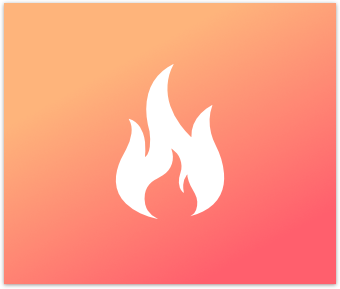
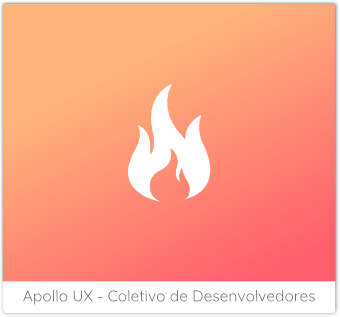
mudan;a das fotos na pagina inicial

diff --git a/css/estilo.css b/css/estilo.css
@@ -1,2 +1,2 @@
-@import url("https://fonts.googleapis.com/css?family=Lato:300,400|Quicksand");body{font-size:16px;font-family:'Quicksand';backgroud:#272935}body a{color:#999;transition:all .5s ease-in-out}body a:hover{color:#333}.nav{position:fixed!important;top:0;left:0;right:0}.nav .titulo--nav{font-size:15px}.nav .nav-item a.is-tab:hover,.nav a.nav-item.is-tab:hover{border-bottom-color:#6a6a6a!important;border-top-color:transparent}.nav .nav-item a.is-tab,.nav a.nav-item.is-tab{border-bottom:1px solid #eee!important}.projetos{margin-top:150px;font-family:'Quicksand';padding-top:0px!important}.projetos .header{font-size:25px;color:#333}.projetos .header--profissao{margin-top:0px;font-size:20px;color:#6a6a6a;font-weight:500}.projetos .header--descricao{margin-top:20px;font-size:16px;color:#999;font-weight:300}.projetos .header--projeto{margin-top:30px;font-size:25px;color:#6a6a6a}.projetos .projetos--imagem--direita div img,.projetos .projetos--imagem--esquerda{width:300px}.projetos .projetos--imagem--esquerda img{margin-right:0}.projetos .projetos--imagem--direita img{margin-left:0}.projetos .projetos__thumb:hover img{cursor:pointer}.projetos .projetos--link{color:#6a6a6a;transition:all .5s ease-in-out}.projetos .projetos__pagina{transition:all 1s ease-in-out}.projetos .projetos--link:hover{color:#BFD9DC}.projetos .projetos__pagina--lista ul{position:absolute}.projetos .projetos__pagina--lista li{display:inline;padding-right:20px;float:left;cursor:pointer;color:#999;bottom:0}.projetos .btn{margin-bottom:30px;font-family:'Quicksand';margin-top:15px;width:100px;height:35px;background:none;border:none;-webkit-box-shadow:0px 0px 1px 0px rgba(0, 0, 0, 0.36);-moz-box-shadow:0px 0px 1px 0px rgba(0, 0, 0, 0.36);box-shadow:0px 0px 1px 0px rgba(0, 0, 0, 0.36);margin-right:5px;margin-left:2px;color:#999;font-size:10.2px;text-transform:uppercase;transition:all .3s ease-in-out}.projetos .btn:hover{cursor:pointer;background:#555!important;color:#fff!important}.projetos .btn--ativo{background:#555!important;color:#fff!important}.projetos .btn:focus{outline:#333}.cases{display:inline-block;text-align:left}.cases h1{font-size:30px;font-weight:bold;color:#333}.cases h2{font-weight:bold}.cases h3{font-weight:bold}.cases h2{font-size:14px}.cases p{font-size:12.6px;color:#6a6a6a;font-weight:300}.cases h2,.cases p{text-align:left}.cases--image{width:900px}.wr img{margin-bottom:0;padding-bottom:0}.pp2{display:none}@-webkit-keyframes fadeout{0%{opacity:1}to{opacity:0}}@keyframes fadeout{0%{opacity:1}to{opacity:0}}.fadeOut{opacity:0;-moz-animation:fadeout 1s linear;-webkit-animation:fadeout 1s linear;animation:fadeout 1s linear}.fadeIn{transition:all 1s ease-in-out;display:block}@media screen and (max-width:1100px){body{zoom:0.6;-moz-transform:scale(-2);-moz-transform-origin:0 0}}@media screen and (max-width:1300px){body{zoom:0.8;-moz-transform:scale(-2);-moz-transform-origin:0 0}}
+@import url("https://fonts.googleapis.com/css?family=Lato:300,400|Quicksand");body{font-size:16px;font-family:'Quicksand';backgroud:#272935}body a{color:#999;transition:all .5s ease-in-out}body a:hover{color:#333}.nav{position:fixed!important;top:0;left:0;right:0}.nav .titulo--nav{font-size:15px}.nav .nav-item a.is-tab:hover,.nav a.nav-item.is-tab:hover{border-bottom-color:#6a6a6a!important;border-top-color:transparent}.nav .nav-item a.is-tab,.nav a.nav-item.is-tab{border-bottom:1px solid #eee!important}.projetos{margin-top:150px;font-family:'Quicksand';padding-top:0px!important}.projetos .header{font-size:25px;color:#333}.projetos .header--profissao{margin-top:0px;font-size:20px;color:#6a6a6a;font-weight:500}.projetos .header--descricao{margin-top:20px;font-size:16px;color:#999;font-weight:300}.projetos .header--projeto{margin-top:30px;font-size:25px;color:#6a6a6a}.projetos .projetos__imagem img{margin:15px 15px 0 15px;height:346px;transition:all .3s ease-in-out}.projetos .projetos__imagem:hover img{cursor:pointer}.projetos .projetos--link{color:#6a6a6a;transition:all .5s ease-in-out}.projetos .projetos__pagina{transition:all 1s ease-in-out}.projetos .projetos--link:hover{color:#BFD9DC}.projetos .projetos__pagina--lista ul{position:absolute}.projetos .projetos__pagina--lista li{display:inline;padding-right:20px;float:left;cursor:pointer;color:#999;bottom:0}.projetos .btn{margin-bottom:30px;font-family:'Quicksand';margin-top:15px;width:100px;height:35px;background:none;border:none;-webkit-box-shadow:0px 0px 1px 0px rgba(0, 0, 0, 0.36);-moz-box-shadow:0px 0px 1px 0px rgba(0, 0, 0, 0.36);box-shadow:0px 0px 1px 0px rgba(0, 0, 0, 0.36);margin-right:5px;margin-left:2px;color:#999;font-size:10.2px;text-transform:uppercase;transition:all .3s ease-in-out}.projetos .btn:hover{cursor:pointer;background:#555!important;color:#fff!important}.projetos .btn--ativo{background:#555!important;color:#fff!important}.projetos .btn:focus{outline:#333}@media screen and (max-width:550px){img{max-width:100%!important;height:auto!important;align:center!important;display:block!important}}.cases{display:inline-block;text-align:left}.cases h1{font-size:30px;font-weight:bold;color:#333}.cases h2{font-weight:bold}.cases h3{font-weight:bold}.cases h2{font-size:14px}.cases p{font-size:12.6px;color:#6a6a6a;font-weight:300}.cases h2,.cases p{text-align:left}.cases--image{width:900px}.wr img{margin-bottom:0;padding-bottom:0}.pp2{display:none}@-webkit-keyframes fadeout{0%{opacity:1}to{opacity:0}}@keyframes fadeout{0%{opacity:1}to{opacity:0}}.fadeOut{opacity:0;-moz-animation:fadeout 1s linear;-webkit-animation:fadeout 1s linear;animation:fadeout 1s linear}.fadeIn{transition:all 1s ease-in-out;display:block}@media screen and (max-width:1100px){body{zoom:0.6;-moz-transform:scale(-2);-moz-transform-origin:0 0}}@media screen and (max-width:1300px){body{zoom:0.8;-moz-transform:scale(-2);-moz-transform-origin:0 0}}
 /*# sourceMappingURL=estilo.css.map */

diff --git a/index.html b/index.html
@@ -45,20 +45,21 @@
 
           <!-- Projetos -->
 
-          <div class="columns">
-            <div class="projetos--imagem-esquerda column is-half has-text-centered">
-              <div class="logo web">
-                <a href="paginas/projetos_apollo.html"><img src="img\thumbnails\apolloUXThumb2.png" alt=""></a>
-                <h2><a href="paginas/projetos_apollo.html" class="projetos--link"></a></h2>
-              </div>
-            </div>
-            <div class="projetos--imagem-direita column is-half has-text-centered">
-              <div class="logo web">
-                <a href="paginas/projetos_apollo.html"><img src="img\thumbnails\apolloUXThumb2.png" alt=""></a>
-                <h2><a href="paginas/projetos_apollo.html" class="projetos--link"></a></h2></p>
-              </div>
+          <div class="columns is-marginless">
+            <div class="projetos__imagem column has-text-centered">
+              <img class="logo web" src="img\thumbnails\coalaThumb2.png" alt="">
+              <img class="web" src="img\thumbnails\apolloUXThumb2.png" alt="">
+              <img class="web logo" src="img\thumbnails\wrThumb.jpg" alt="">
             </div>
           </div>
+          <div class="columns">
+            <div class="projetos__imagem column has-text-centered">
+              <img class="logo" src="img\thumbnails\apolloUXThumb2.png" alt="">
+              <img class="js" src="img\thumbnails\coalaThumb2.png" alt="">
+              <img class="js" src="img\thumbnails\apolloUXThumb2.png" alt="">
+            </div>
+          </div>
+
     </section>
 </body>
 

diff --git a/sass/estilo.scss b/sass/estilo.scss
@@ -57,17 +57,12 @@ body {
 		font-size: $var-1*2.5;
 		color: $cor-2;
 	}
-	.projetos--imagem--esquerda,
-	.projetos--imagem--direita div img {
-		width: 300px
+	.projetos__imagem img {
+		margin: 15px 15px 0 15px;
+		height: 346px;
+		transition: all .3s ease-in-out;
 	}
-	.projetos--imagem--esquerda img {
-		margin-right: 0
-	}
-	.projetos--imagem--direita img {
-		margin-left: 0;
-	}
-	.projetos__thumb:hover img {
+	.projetos__imagem:hover img {
 		cursor: pointer;
 	}
 	.projetos--link {
@@ -123,6 +118,15 @@ body {
 	.btn:focus {
 		outline: #333;
 	}
+}
+
+@media screen and (max-width: 550px) {        
+  img {
+      max-width: 100% !important;
+      height:auto !important;
+      align: center !important;
+      display:block !important;
+   }
 }
 
 // .pagina--ativa {
